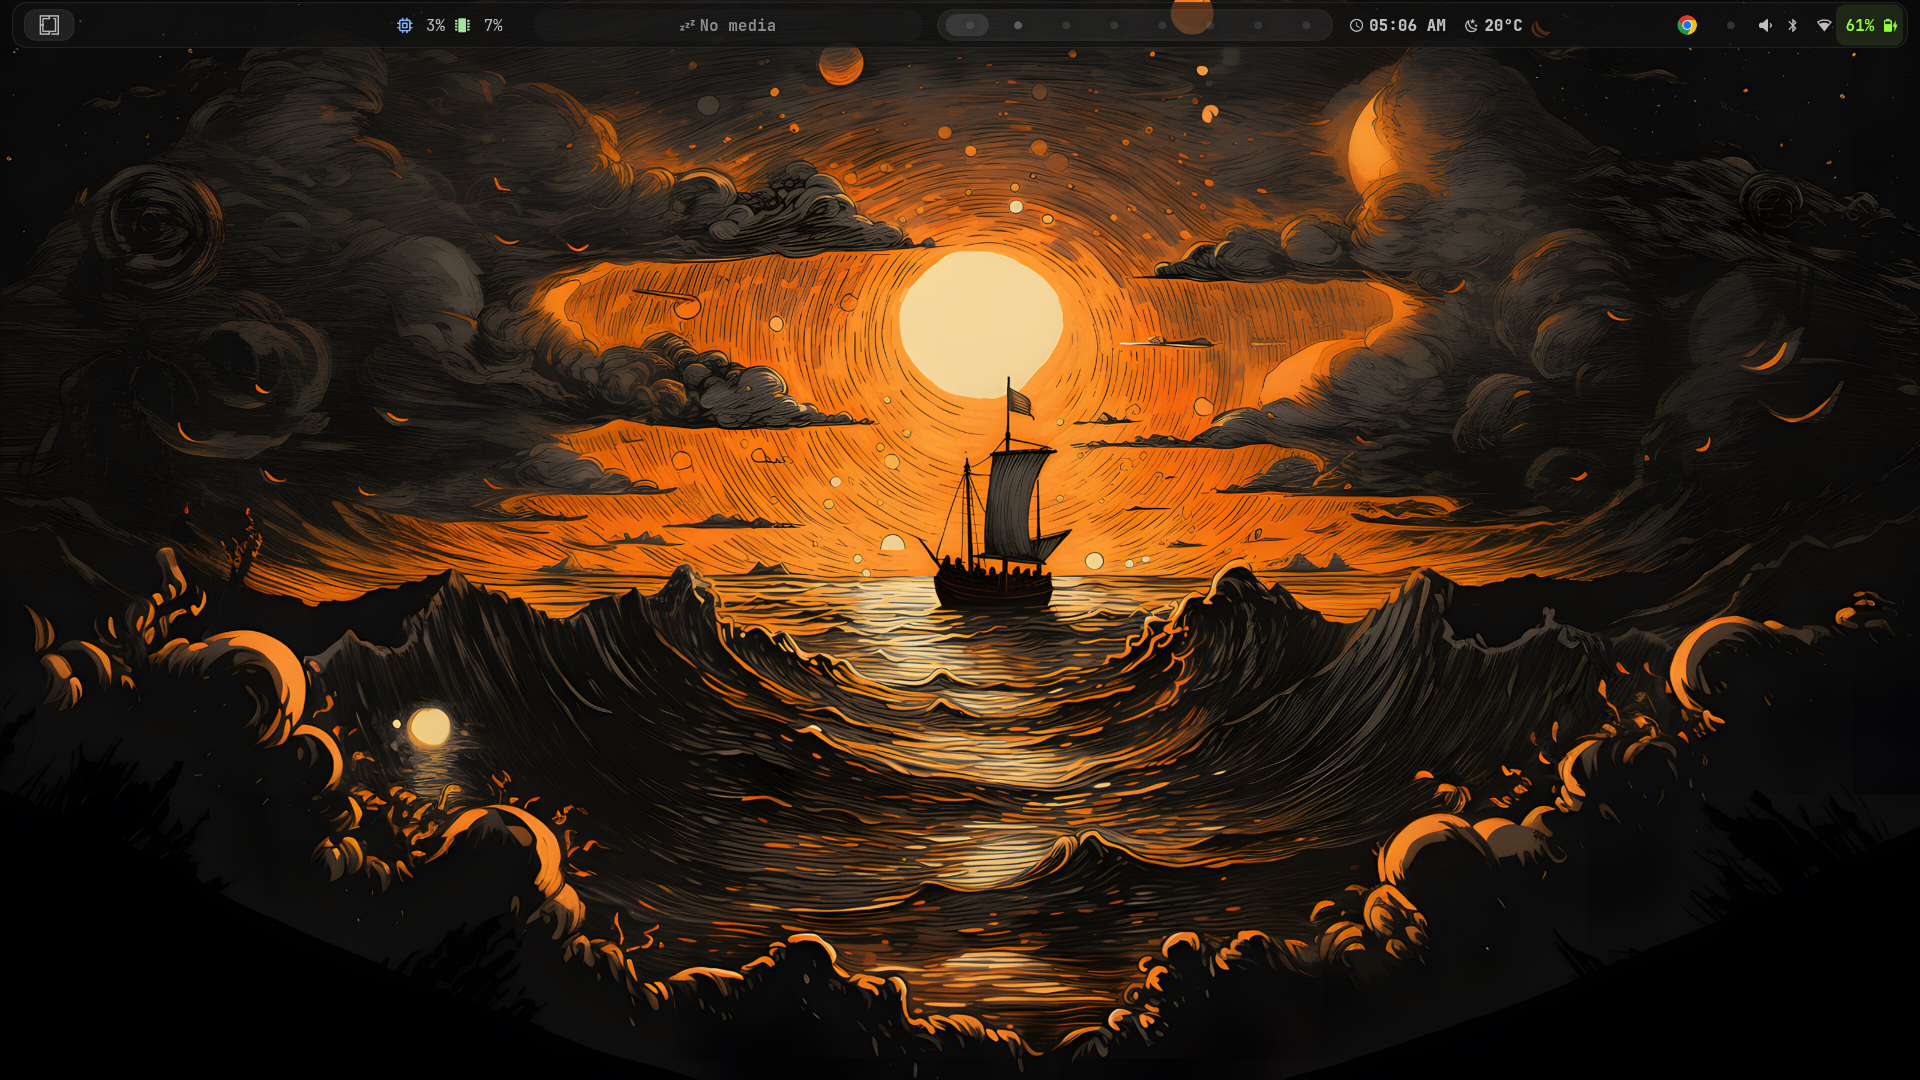
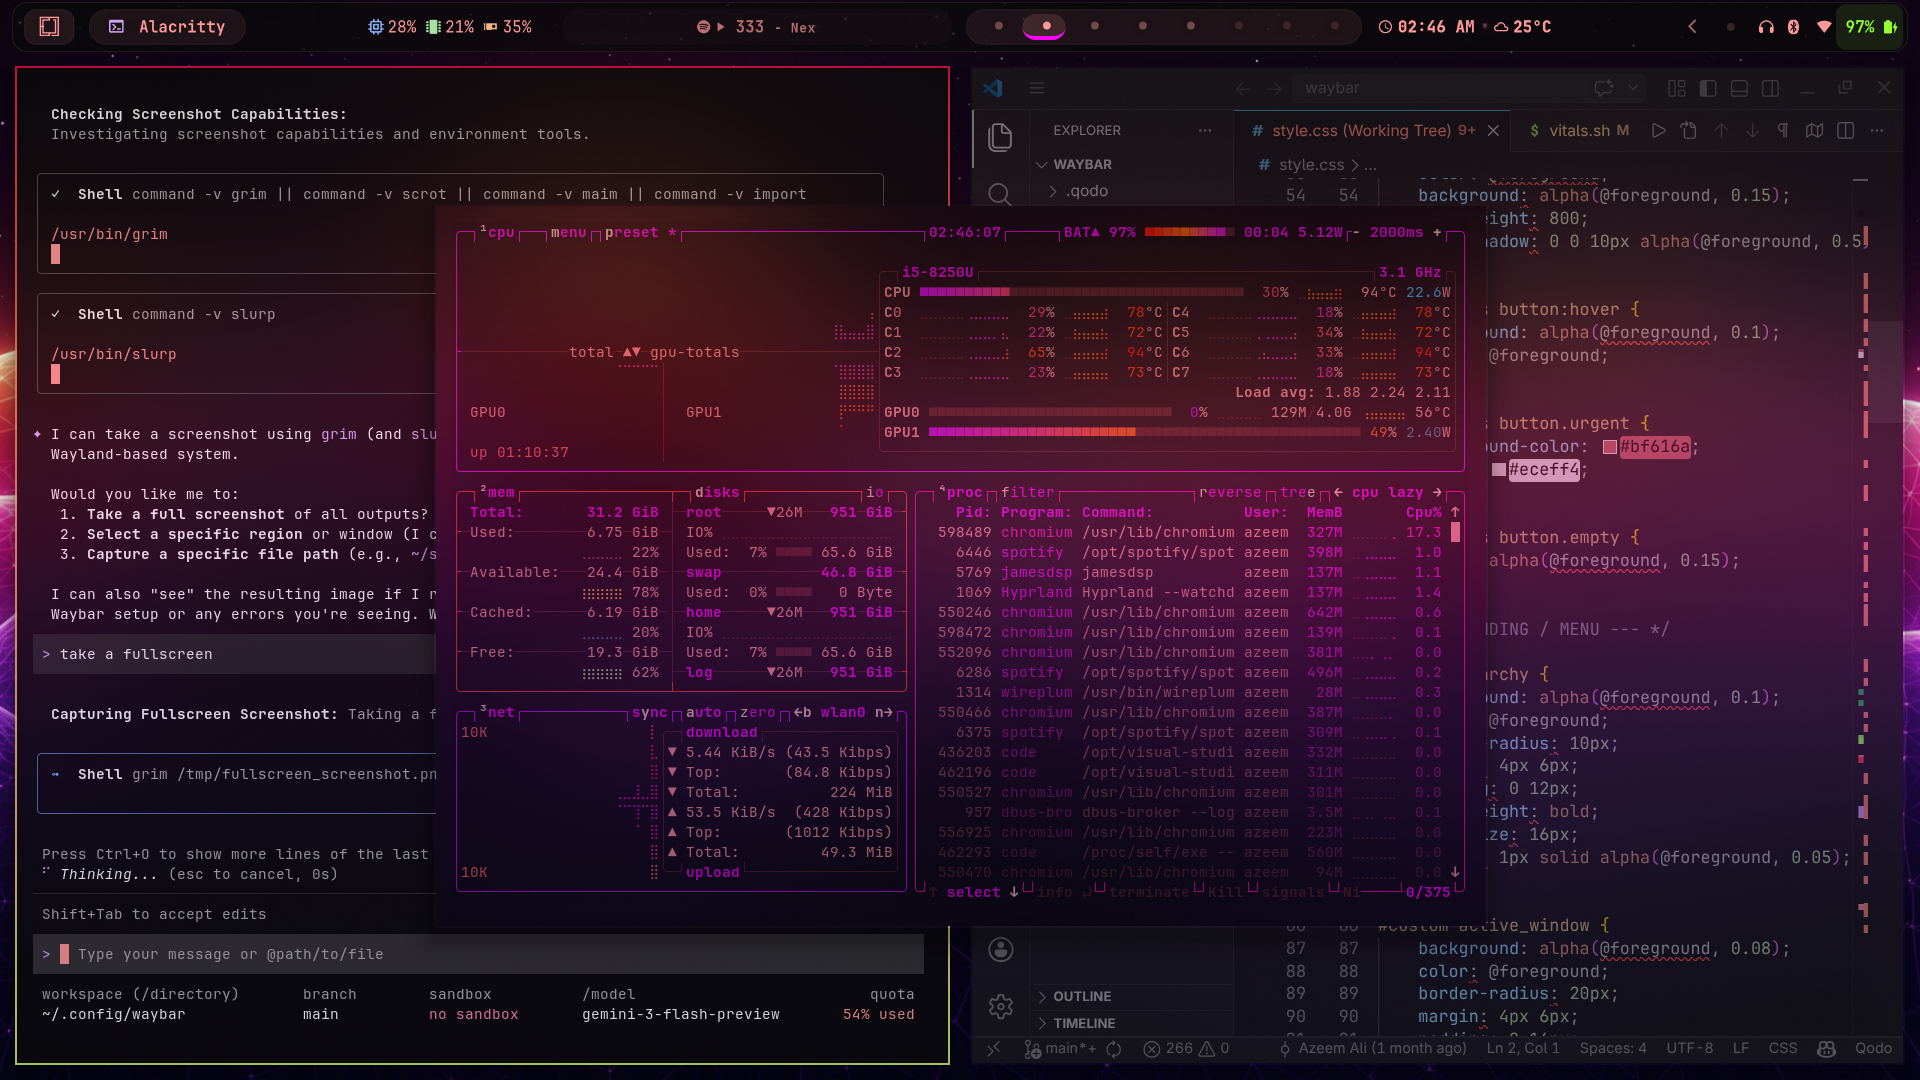
✦ feat: add hybrid GPU support, enhance installer, and refine UI aesthetics
- Implement hybrid GPU monitoring for NVIDIA, Intel, and AMD in vitals.sh
    - Improve installer with robust dependency checks and backup logic
    - Increase bar height and enable dot separator in config.jsonc
    - Update README with quick install guide and configuration instructions

diff --git a/README.md b/README.md
@@ -1,7 +1,4 @@
 <h1 align="center">
-  <br>
-  <img src="assets/waybar.png" alt="Omarchy Waybar" width="800">
-  <br>
   ✨ Omarchy Waybar ✨
 </h1>
 
@@ -24,6 +21,11 @@
   <a href="#-customization">Customization</a>
 </div>
 
+<h1 align="center">
+  <br>
+  <img src="assets/waybar.png" alt="Omarchy Waybar" width="800">
+  <br>
+</h1>
 ---
 
 ## 🚀 Quick Install
@@ -65,8 +67,8 @@ bash -c "$(curl -fsSL https://raw.githubusercontent.com/AzeemAli14/waybar-config
 - **Rich Dashboards**: Tooltips show high-res progress bars (`━━●──`).
 
 ### 📊 System Vitals & Network
-- Monitor **CPU**, **RAM**, **Swap**, and **NVIDIA GPU** in one place.
-- **GPU Monitoring**: Real-time NVIDIA utilization tracking (requires `nvidia-smi`).
+- Monitor **CPU**, **RAM**, **Swap**, and **GPU** in one place.
+- **Hybrid GPU Monitoring**: Real-time tracking for **NVIDIA**, **Intel**, and **AMD** GPUs (automatically detects active card).
 - **Real-time Network**: Download and Upload speeds with progress bars integrated into the vitals tooltip.
 - Monospace-aligned progress bars for perfect visual symmetry.
 - Click to launch `btop` for deep-dive analysis.
@@ -77,10 +79,16 @@ bash -c "$(curl -fsSL https://raw.githubusercontent.com/AzeemAli14/waybar-config
 
 ---
 
-## 🛠 Manual Installer
+## 🛠 Installation
 
+### Quick Install (Piping to Bash)
+To install this configuration with a single command, run:
+```bash
+bash -c "$(curl -fsSL https://raw.githubusercontent.com/AzeemAli14/waybar-config/main/install.sh)"
+```
+
+### Manual Installation
 To install with the full visual experience, run:
-
 ```bash
 git clone https://github.com/AzeemAli14/waybar-config.git ~/.config/waybar
 cd ~/.config/waybar
@@ -89,6 +97,16 @@ chmod +x install.sh
 ```
 
 > **Note:** The installer will prompt you for your **Location (City)** to configure the weather module.
+
+---
+
+## ⚙ Configuration
+
+### Weather Location
+To change your city after installation, you can either edit the `.env` file or run the installer with the reconfig flag:
+```bash
+~/.config/waybar/install.sh --reconfig
+```
 
 ---
 
@@ -108,9 +126,9 @@ Ensure these are installed for the full experience:
 
 | Type | Packages |
 | :--- | :--- |
-| **Core** | `waybar`, `jq`, `curl` |
+| **Core** | `waybar`, `jq`, `curl`, `awk`, `procps` (`top`, `free`) |
 | **Media** | `playerctl`, `pamixer` |
-| **System** | `btop`, `hyprctl`, `nvidia-smi` (optional) |
+| **System** | `btop`, `hyprctl`, `nvidia-smi` (optional for NVIDIA users) |
 | **Fonts** | `JetBrainsMono Nerd Font` (Required for Icons) |
 
 ---
